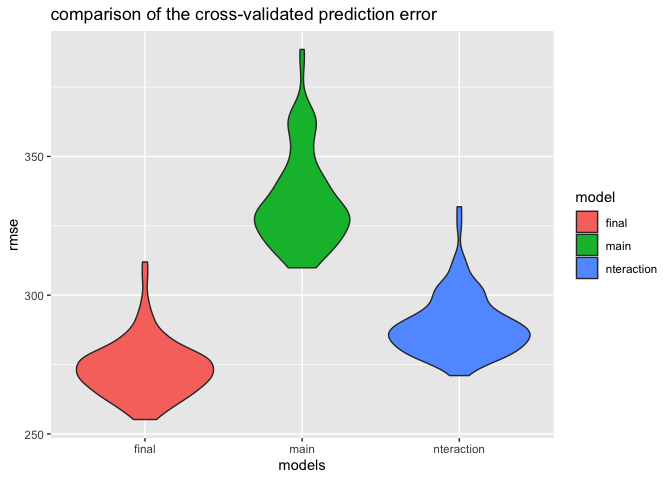
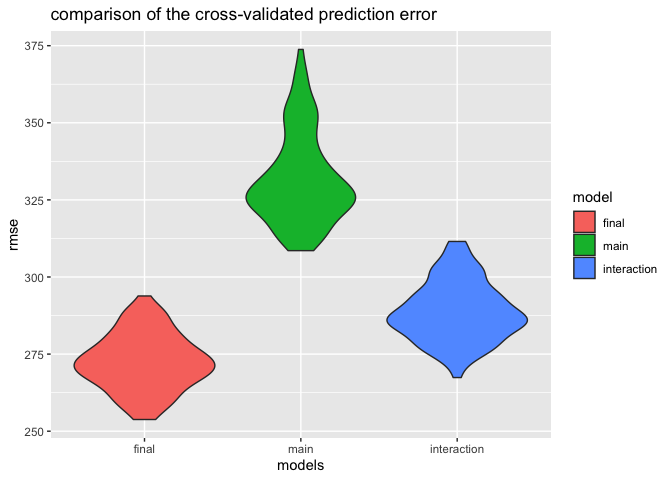
final

diff --git a/p8105_hw6_jl6049.md b/p8105_hw6_jl6049.md
@@ -229,8 +229,11 @@ cv_df =
   mutate(
     rmse_final = map2_dbl(fit_final, test, ~rmse(model = .x, data = .y)),
     rmse_main = map2_dbl(fit_main, test, ~rmse(model = .x, data = .y)),
-    rmse_nteraction = map2_dbl(fit_interaction, test, ~rmse(model = .x, data = .y)))
+    rmse_interaction = map2_dbl(fit_interaction, test, ~rmse(model = .x, data = .y)))
 ```
+
+    ## Warning in predict.lm(model, data): prediction from a rank-deficient fit may be
+    ## misleading
 
 ``` r
 cv_df %>% 
